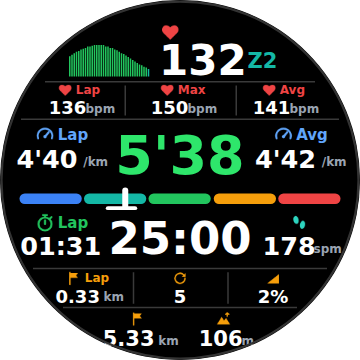
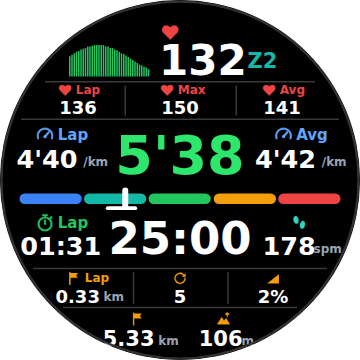
No bpm unit on heart rate fields
Heart rate is obvious from its label and red color; the unit only cost
digit size in the narrow inline rows (Lap HR / Avg HR).

Claude-Session: https://claude.ai/code/session_0159iiBDDw2eyavFQfqH1Uvg

Changed region(s): [[0.1222, 0.275, 0.3361, 0.3361], [0.7028, 0.275, 0.8861, 0.3361], [0.4278, 0.275, 0.6111, 0.3361]]

diff --git a/shared/fields.js b/shared/fields.js
@@ -112,7 +112,6 @@ export const FIELDS = {
     value: () => "",
   },
   hr: {
-    unit: "bpm",
     short: "HR",
     icon: "heart",
     qual: "",
@@ -132,7 +131,6 @@ export const FIELDS = {
     },
   },
   avg_hr: {
-    unit: "bpm",
     short: "AvgHR",
     icon: "heart",
     qual: "Avg",
@@ -141,7 +139,6 @@ export const FIELDS = {
     value: (c) => intStr(c.stats.avgHr.value),
   },
   lap_hr: {
-    unit: "bpm",
     short: "LapHR",
     icon: "heart",
     qual: "Lap",
@@ -150,7 +147,6 @@ export const FIELDS = {
     value: (c) => intStr(c.stats.lapHr()),
   },
   max_hr: {
-    unit: "bpm",
     short: "MaxHR",
     icon: "heart",
     qual: "Max",

diff --git a/setting/index.js b/setting/index.js
@@ -288,7 +288,7 @@ AppSettingsPage({
         (v) => saveLayout({ ...layout, units: v }),
       ),
       hint(
-        "Small km, W, bpm, m after the numbers. The big center numbers stay unit-free.",
+        "Small km, W, m after the numbers. Heart rate and the big center numbers stay unit-free.",
       ),
       label("Zone bar (middle)"),
       chips(

diff --git a/README.md b/README.md
@@ -54,7 +54,7 @@ value itself, in its own units) over the slot and adds its own label. GAP, verti
 oscillation and ground contact time are not exposed by Zepp OS at all, so they can't be
 shown.
 
-**Units** (km/mi, /km, m/ft, W, bpm, spm, kcal, km/h/mph) are drawn small after the
+**Units** (km/mi, /km, m/ft, W, spm, kcal, km/h/mph) are drawn small after the
 value, placed from the watch's own text measurement (`getTextLayout`, with a width
 estimate as fallback) so the pair never overlaps; value and unit shrink together to fit.
 The big center numbers of three-column rows and the single top HR (which shows its zone)

diff --git a/CHANGELOG.md b/CHANGELOG.md
@@ -2,7 +2,7 @@
 
 ## 0.2.0 — customizable screen
 
-- Units after values (km/mi, /km, m/ft, W, bpm, spm, kcal, km/h), following the pace
+- Units after values (km/mi, /km, m/ft, W, spm, kcal, km/h; none on heart rate), following the pace
   unit; not on the big center numbers; can be hidden (phone and watch).
 
 - Full privacy statement (PRIVACY.md), published at
